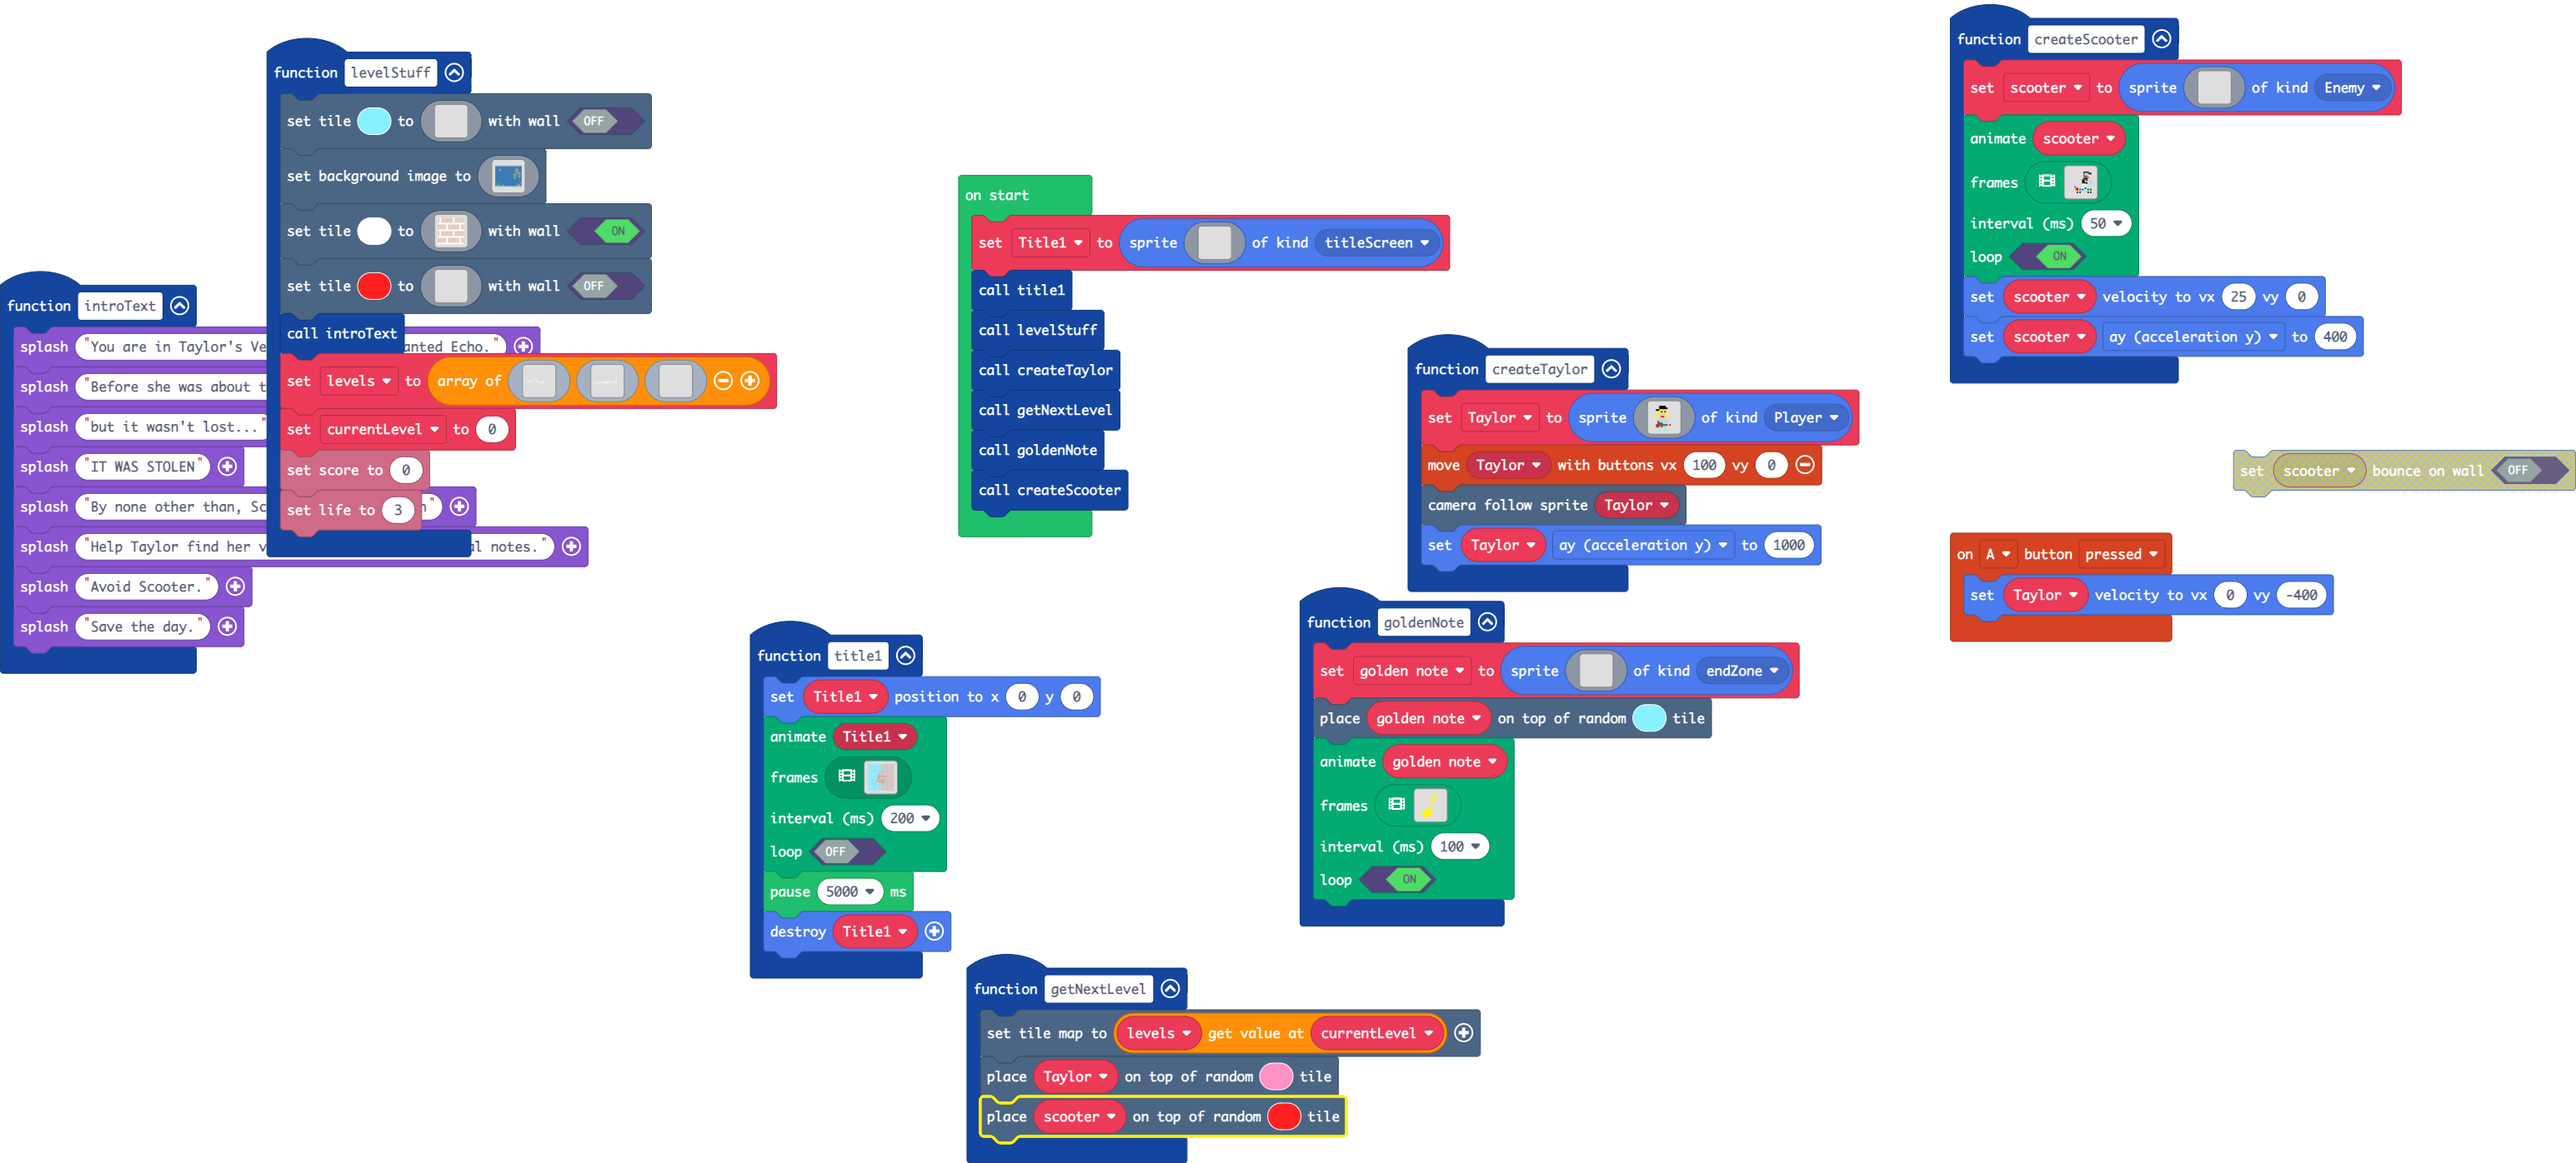
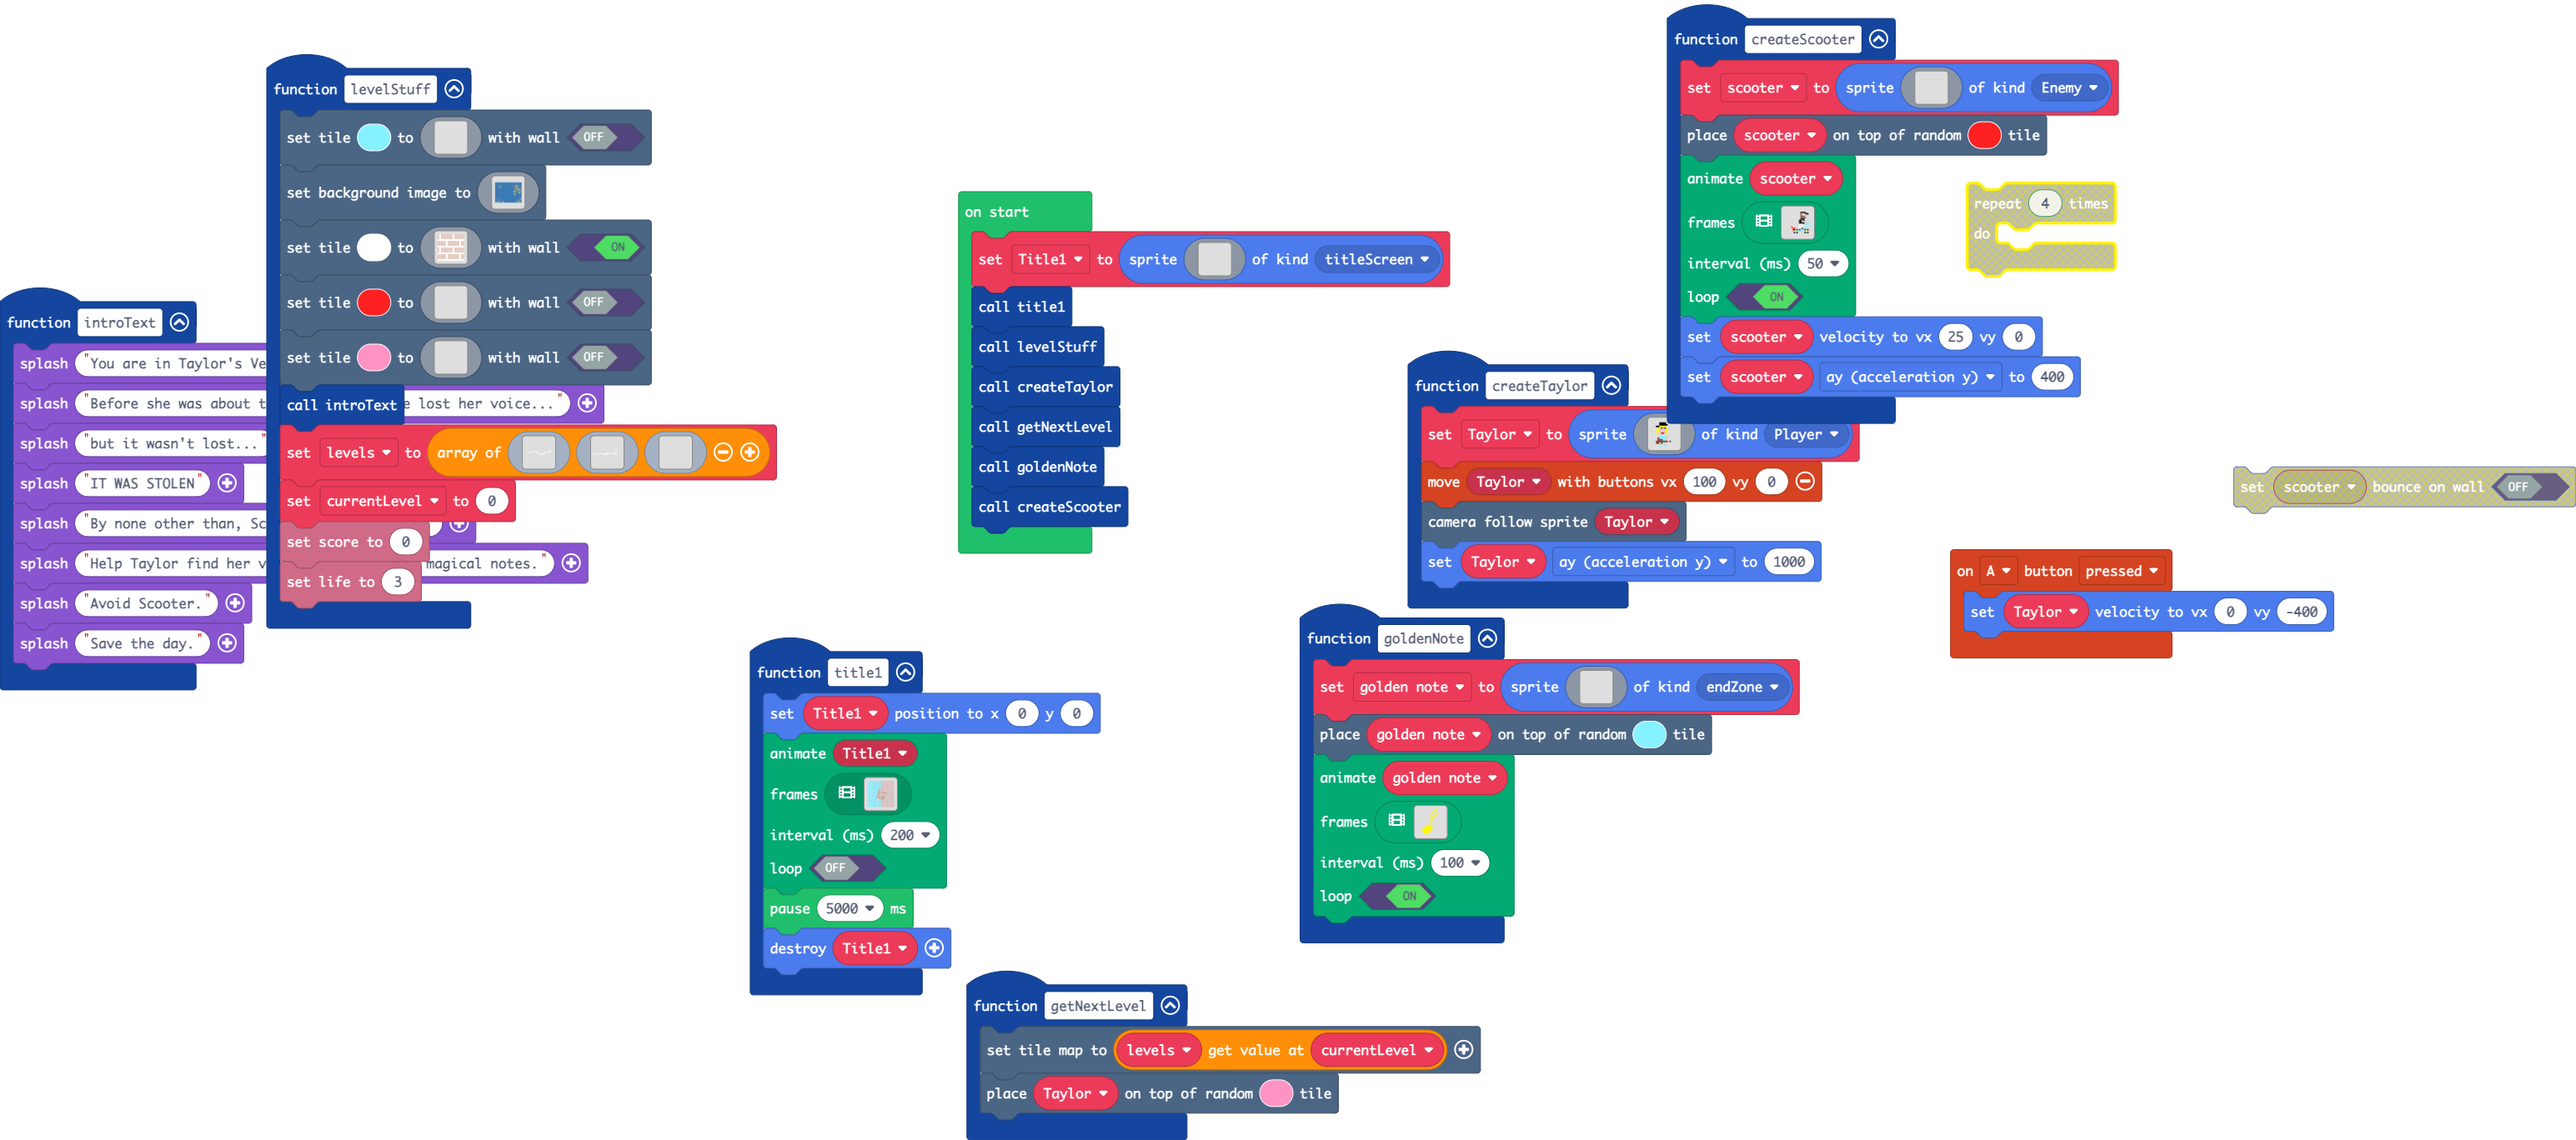
Update main.blocks, main.ts

diff --git a/main.ts b/main.ts
@@ -204,6 +204,7 @@ function createScooter () {
         . . . . . . . . . . . . . . . . 
         . . . . . . . . . . . . . . . . 
         `, SpriteKind.Enemy)
+    scene.placeOnRandomTile(scooter, 2)
     animation.runImageAnimation(
     scooter,
     [img`
@@ -611,15 +612,33 @@ function levelStuff () {
         . . . . . . . . . . . . . . . . 
         . . . . . . . . . . . . . . . . 
         `, false)
+    scene.setTile(3, img`
+        . . . . . . . . . . . . . . . . 
+        . . . . . . . . . . . . . . . . 
+        . . . . . . . . . . . . . . . . 
+        . . . . . . . . . . . . . . . . 
+        . . . . . . . . . . . . . . . . 
+        . . . . . . . . . . . . . . . . 
+        . . . . . . . . . . . . . . . . 
+        . . . . . . . . . . . . . . . . 
+        . . . . . . . . . . . . . . . . 
+        . . . . . . . . . . . . . . . . 
+        . . . . . . . . . . . . . . . . 
+        . . . . . . . . . . . . . . . . 
+        . . . . . . . . . . . . . . . . 
+        . . . . . . . . . . . . . . . . 
+        . . . . . . . . . . . . . . . . 
+        . . . . . . . . . . . . . . . . 
+        `, false)
     introText()
     levels = [img`
-        3.................................................
-        ..................................................
-        ..................................................
-        ...............111111.............................
-        ..............1.....1....2........................
-        .............1......1...............9.............
-        1111111111111.......11111..1.1..11111.............
+        3............................................1....
+        .............................................1....
+        ...............2.............................1....
+        ...............111111........................1....
+        ..............1.....1........................1....
+        .2...........1......1.....2.....2...9........1....
+        1111111111111.......11111..1.1..11111111111111....
         ........................1.......1.................
         ........................1.......1.................
         ........................111111111.................
@@ -630,7 +649,7 @@ function levelStuff () {
         .........................................1........
         .........................................1........
         ....................................9...11........
-        ....................................1...11........
+        ....................2...............1...11........
         ...................11111111..............1........
         ..........11111111.....1111111111111111111........
         1111111111......1111111111..............11........
@@ -651,7 +670,6 @@ function levelStuff () {
 function getNextLevel () {
     scene.setTileMap(levels[currentLevel])
     scene.placeOnRandomTile(Taylor, 3)
-    scene.placeOnRandomTile(scooter, 2)
 }
 function createTaylor () {
     Taylor = sprites.create(img`
